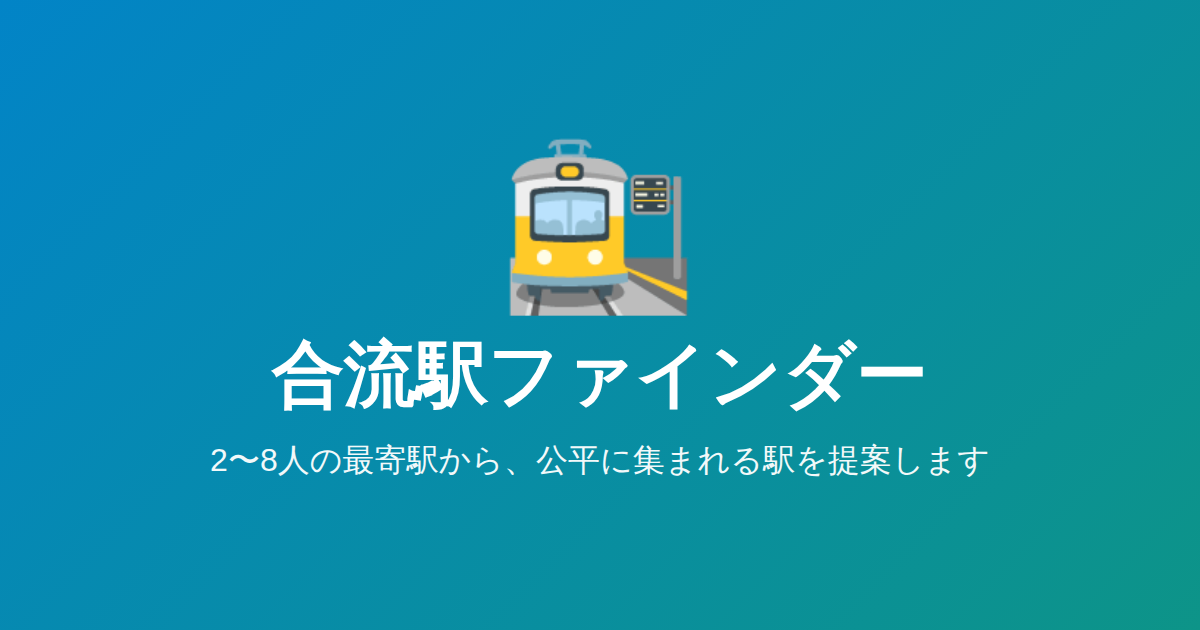
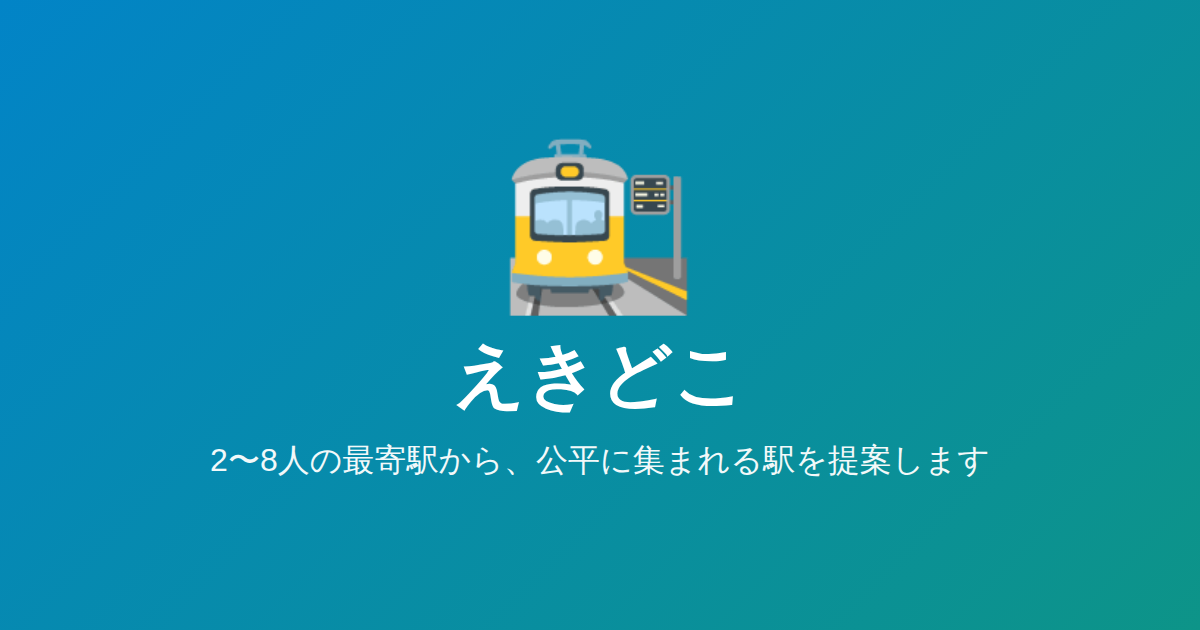
サービス名を「合流駅ファインダー」から「えきどこ」に変更
タイトル・OGP・Twitterカード・JSON-LD構造化データ・manifest.json・
共有画像生成(canvas文言・ダウンロードファイル名)・READMEなど、
表示名が使われている全箇所を置き換え。og-image.pngも新しい名前で
再生成。

URL(kakeru110.github.io/eki-finder)・canonical・sitemap.xml・
FormSubmitのリダイレクト先は、ekidoko.comのドメイン設定が完了する
までは変更せず現状のままにしている。

Changed region(s): [[0.2158, 0.5429, 0.7708, 0.6635], [0.6475, 0.6333, 0.6783, 0.6635]]

diff --git a/index.html b/index.html
@@ -2,19 +2,19 @@
 <html lang="ja">
 <head>
 <meta charset="UTF-8">
-<title>合流駅ファインダー</title>
+<title>えきどこ</title>
 <meta name="viewport" content="width=device-width, initial-scale=1">
 <meta name="description" content="2〜8人の職場・自宅最寄駅を入力するだけで、公平に集まれる駅を提案する無料ツールです。実データ(駅すぱあとAPI)で往復移動時間を計算します。">
 <link rel="canonical" href="https://kakeru110.github.io/eki-finder/">
 <meta property="og:type" content="website">
-<meta property="og:site_name" content="合流駅ファインダー">
-<meta property="og:title" content="合流駅ファインダー">
+<meta property="og:site_name" content="えきどこ">
+<meta property="og:title" content="えきどこ">
 <meta property="og:description" content="2〜8人の職場・自宅最寄駅を入力するだけで、公平に集まれる駅を提案する無料ツールです。">
 <meta property="og:url" content="https://kakeru110.github.io/eki-finder/">
 <meta property="og:image" content="https://kakeru110.github.io/eki-finder/og-image.png">
 <meta property="og:locale" content="ja_JP">
 <meta name="twitter:card" content="summary_large_image">
-<meta name="twitter:title" content="合流駅ファインダー">
+<meta name="twitter:title" content="えきどこ">
 <meta name="twitter:description" content="2〜8人の職場・自宅最寄駅を入力するだけで、公平に集まれる駅を提案する無料ツールです。">
 <meta name="twitter:image" content="https://kakeru110.github.io/eki-finder/og-image.png">
 <link rel="icon" href="favicon.svg" type="image/svg+xml">
@@ -24,7 +24,7 @@
 <meta name="theme-color" content="#0284c7">
 <meta name="apple-mobile-web-app-capable" content="yes">
 <meta name="apple-mobile-web-app-status-bar-style" content="black-translucent">
-<meta name="apple-mobile-web-app-title" content="合流駅ファインダー">
+<meta name="apple-mobile-web-app-title" content="えきどこ">
 <link rel="preconnect" href="https://fonts.googleapis.com">
 <link rel="preconnect" href="https://fonts.gstatic.com" crossorigin>
 <link href="https://fonts.googleapis.com/css2?family=Zen+Maru+Gothic:wght@400;500;700;900&display=swap" rel="stylesheet">
@@ -475,7 +475,7 @@
 {
   "@context": "https://schema.org",
   "@type": "WebApplication",
-  "name": "合流駅ファインダー",
+  "name": "えきどこ",
   "url": "https://kakeru110.github.io/eki-finder/",
   "description": "2〜8人の職場・自宅最寄駅を入力するだけで、公平に集まれる駅を提案する無料ツールです。",
   "applicationCategory": "UtilitiesApplication",
@@ -489,7 +489,7 @@
 
 <header>
   <div class="head-row">
-    <h1><a href="index.html">🚉 合流駅ファインダー</a></h1>
+    <h1><a href="index.html">🚉 えきどこ</a></h1>
     <nav class="head-links"><a href="faq.html">❓ よくある質問</a><a href="contact.html">✉ お問い合わせ</a></nav>
   </div>
   <p>2〜8人の最寄駅から、公平に集まれる駅を提案します</p>
@@ -527,7 +527,7 @@
 </main>
 
 <footer>
-  合流駅ファインダーは誰でも無料で使える公開ツールです。<a href="faq.html">よくある質問</a> / <a href="contact.html">お問い合わせ</a>
+  えきどこは誰でも無料で使える公開ツールです。<a href="faq.html">よくある質問</a> / <a href="contact.html">お問い合わせ</a>
 </footer>
 
 <script>
@@ -1394,7 +1394,7 @@ function buildResultImageCanvas(cards, meta) {
   ctx.fillRect(0, 0, W, HEADER_H);
   ctx.fillStyle = "#ffffff";
   ctx.font = `900 22px ${FONT}`;
-  ctx.fillText("🚉 合流駅ファインダー", PAD, 20);
+  ctx.fillText("🚉 えきどこ", PAD, 20);
   ctx.font = `700 14px ${FONT}`;
   ctx.fillText(meta.modeLabel, PAD, 54);
 
@@ -1454,10 +1454,10 @@ async function shareResultImage(cards, meta) {
   const canvas = buildResultImageCanvas(cards, meta);
   const blob = await new Promise(resolve => canvas.toBlob(resolve, "image/png"));
   if (!blob) return;
-  const file = new File([blob], "合流駅ファインダー.png", { type: "image/png" });
+  const file = new File([blob], "えきどこ.png", { type: "image/png" });
   if (navigator.canShare && navigator.canShare({ files: [file] })) {
     try {
-      await navigator.share({ files: [file], title: "合流駅ファインダー" });
+      await navigator.share({ files: [file], title: "えきどこ" });
       return;
     } catch (e) {
       if (e && e.name === "AbortError") return; // ユーザーが共有をキャンセルした場合は何もしない
@@ -1467,7 +1467,7 @@ async function shareResultImage(cards, meta) {
   const url = URL.createObjectURL(blob);
   const a = document.createElement("a");
   a.href = url;
-  a.download = "合流駅ファインダー.png";
+  a.download = "えきどこ.png";
   document.body.appendChild(a);
   a.click();
   a.remove();

diff --git a/contact.html b/contact.html
@@ -2,19 +2,19 @@
 <html lang="ja">
 <head>
 <meta charset="UTF-8">
-<title>お問い合わせ｜合流駅ファインダー</title>
+<title>お問い合わせ｜えきどこ</title>
 <meta name="viewport" content="width=device-width, initial-scale=1">
-<meta name="description" content="合流駅ファインダーへのお問い合わせフォームです。ご意見・不具合報告・未登録駅のご連絡などをお寄せください。">
+<meta name="description" content="えきどこへのお問い合わせフォームです。ご意見・不具合報告・未登録駅のご連絡などをお寄せください。">
 <link rel="canonical" href="https://kakeru110.github.io/eki-finder/contact.html">
 <meta property="og:type" content="website">
-<meta property="og:site_name" content="合流駅ファインダー">
-<meta property="og:title" content="お問い合わせ｜合流駅ファインダー">
-<meta property="og:description" content="合流駅ファインダーへのお問い合わせフォームです。ご意見・不具合報告・未登録駅のご連絡などをお寄せください。">
+<meta property="og:site_name" content="えきどこ">
+<meta property="og:title" content="お問い合わせ｜えきどこ">
+<meta property="og:description" content="えきどこへのお問い合わせフォームです。ご意見・不具合報告・未登録駅のご連絡などをお寄せください。">
 <meta property="og:url" content="https://kakeru110.github.io/eki-finder/contact.html">
 <meta property="og:image" content="https://kakeru110.github.io/eki-finder/og-image.png">
 <meta property="og:locale" content="ja_JP">
 <meta name="twitter:card" content="summary_large_image">
-<meta name="twitter:title" content="お問い合わせ｜合流駅ファインダー">
+<meta name="twitter:title" content="お問い合わせ｜えきどこ">
 <meta name="twitter:image" content="https://kakeru110.github.io/eki-finder/og-image.png">
 <link rel="icon" href="favicon.svg" type="image/svg+xml">
 <link rel="icon" href="favicon.png" type="image/png">
@@ -120,7 +120,7 @@
 
 <header>
   <div class="head-inner">
-    <h1><a href="index.html">🚉 合流駅ファインダー</a></h1>
+    <h1><a href="index.html">🚉 えきどこ</a></h1>
     <p>お問い合わせ</p>
   </div>
 </header>
@@ -133,7 +133,7 @@
     <div id="sentBanner" class="sent-banner" hidden>✅ 送信しました。ありがとうございます。</div>
 
     <form action="https://formsubmit.co/kakeru.senoo@gmail.com" method="POST">
-      <input type="hidden" name="_subject" value="【合流駅ファインダー】お問い合わせ">
+      <input type="hidden" name="_subject" value="【えきどこ】お問い合わせ">
       <input type="hidden" name="_template" value="table">
       <input type="hidden" name="_captcha" value="true">
       <input type="hidden" name="_next" value="https://kakeru110.github.io/eki-finder/contact.html?sent=1">

diff --git a/faq.html b/faq.html
@@ -2,19 +2,19 @@
 <html lang="ja">
 <head>
 <meta charset="UTF-8">
-<title>よくある質問｜合流駅ファインダー</title>
+<title>よくある質問｜えきどこ</title>
 <meta name="viewport" content="width=device-width, initial-scale=1">
-<meta name="description" content="合流駅ファインダーのよくある質問。料金、使い方、モードの違い、移動時間の精度、対応エリアなどをまとめています。">
+<meta name="description" content="えきどこのよくある質問。料金、使い方、モードの違い、移動時間の精度、対応エリアなどをまとめています。">
 <link rel="canonical" href="https://kakeru110.github.io/eki-finder/faq.html">
 <meta property="og:type" content="website">
-<meta property="og:site_name" content="合流駅ファインダー">
-<meta property="og:title" content="よくある質問｜合流駅ファインダー">
-<meta property="og:description" content="合流駅ファインダーのよくある質問。料金、使い方、モードの違い、移動時間の精度、対応エリアなどをまとめています。">
+<meta property="og:site_name" content="えきどこ">
+<meta property="og:title" content="よくある質問｜えきどこ">
+<meta property="og:description" content="えきどこのよくある質問。料金、使い方、モードの違い、移動時間の精度、対応エリアなどをまとめています。">
 <meta property="og:url" content="https://kakeru110.github.io/eki-finder/faq.html">
 <meta property="og:image" content="https://kakeru110.github.io/eki-finder/og-image.png">
 <meta property="og:locale" content="ja_JP">
 <meta name="twitter:card" content="summary_large_image">
-<meta name="twitter:title" content="よくある質問｜合流駅ファインダー">
+<meta name="twitter:title" content="よくある質問｜えきどこ">
 <meta name="twitter:image" content="https://kakeru110.github.io/eki-finder/og-image.png">
 <link rel="icon" href="favicon.svg" type="image/svg+xml">
 <link rel="icon" href="favicon.png" type="image/png">
@@ -114,7 +114,7 @@
 
 <header>
   <div class="head-inner">
-    <h1><a href="index.html">🚉 合流駅ファインダー</a></h1>
+    <h1><a href="index.html">🚉 えきどこ</a></h1>
     <p>よくある質問</p>
   </div>
 </header>

diff --git a/README.md b/README.md
@@ -1,4 +1,4 @@
-# 合流駅ファインダー
+# えきどこ
 
 2〜8人分の職場・自宅最寄駅を入力すると、公平に集まれる駅を3つの観点から提案するツールです。駅すぱあとAPI(買い切り型)の範囲探索で実際の移動時間を計算します。
 
